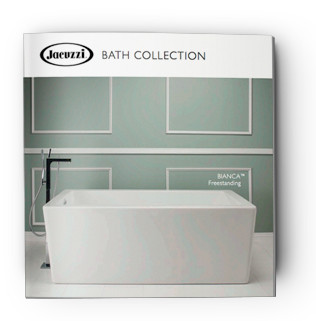
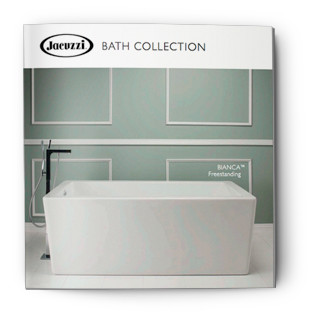
styling tweaks and image update

diff --git a/style.css b/style.css
@@ -1848,101 +1848,7 @@ h5 a:visited:hover {
 --------------------------------------------------------------*/
 
 
-.broPop
-{
-	background: #FFF;
-	height: 384px;	
-}
 
-.broPop .close_popup
-{
-	background: #006a85;
-	padding: 10px 25px;
-	text-align: right;
-}
-
-.broPop .close_popup a
-{
-	font-size: 12px;
-	line-height: 15px;
-	color: #FFF;
-	text-decoration: none;
-	font-family: "GSL";
-}
-
-.broPop .popup_content
-{
-	padding: 40px 20px;
-	text-align: center;
-	float: left;
-	width: 50%;
-}
-
-
-.broPop .popup_img
-{
-	text-align: right;
-	float: right;
-}
-
-
-.broPop .popup_content h2
-{
-	font-size: 24px;
-	line-height: 30px;
-	color: #006a85;
-	margin: 0px 0px 25px;
-	font-family: "GSL";
-	font-weight: 400;
-}
-
-.broPop .popup_content p
-{
-	font-size: 14px;
-	line-height: 23px;
-	color: #000000;
-	margin-bottom: 15px;
-	font-family: "Helvetica Neue";
-	font-weight: 300;
-}
-
-.vc_btn_grey.vc_btn_outlined.vc_btn_blue, .vc_btn_grey.vc_btn_square_outlined.vc_btn_blue
-{
-	color: #006a85 !important;
-	border-color: #006a85 !important;
-}
-
-.fancybox-skin
-{
-	background: none !important;
-	padding: 0px !important;
-}
-
-.clear
-{
- 	clear: both;
- 	margin: 0 auto;	
-}
-
-.fancybox-opened .fancybox-skin
-{
-	box-shadow: none !important;
-}
-
-
-@media screen and (max-width: 899px) {
-	.broPop
-	{
-		height: auto;
-	}
-	
-		
-	.broPop .popup_img
-	{
-		text-align: center;
-	}
-
-}
 	
 @media screen and (max-width: 768px) {
   .collection-row .wpb_single_image.vc_align_right {
@@ -2360,4 +2266,104 @@ h2.pdf-heading
 	line-height: 70px !important;
 	background: url("images/pdf_download.png") right center no-repeat transparent;
 	display: inline-block;	
+}
+
+/*--------------------------------------------------------------
+13.0 Popups
+--------------------------------------------------------------*/
+.broPop
+{
+	background: #FFF;
+	height: 384px;	
+}
+
+.broPop .close_popup
+{
+	background: #006a85;
+	padding: 10px 25px;
+	text-align: right;
+}
+
+.broPop .close_popup a
+{
+	font-size: 12px;
+	line-height: 15px;
+	color: #FFF;
+	text-decoration: none;
+	font-family: "GSL";
+}
+
+.broPop .popup_content
+{
+	padding: 40px 20px;
+	text-align: center;
+	float: left;
+	width: 50%;
+}
+
+
+.broPop .popup_img
+{
+	text-align: center;
+	float:none;
+}
+
+
+.broPop .popup_content h2
+{
+	font-size: 24px;
+	line-height: 30px;
+	color: #006a85;
+	margin: 0px 0px 15px;
+	font-family: "GSL";
+	font-weight: 400;
+}
+
+.broPop .popup_content p
+{
+	font-size: 14px;
+	line-height: 23px;
+	color: #000000;
+	margin-bottom: 15px;
+	font-family: "Helvetica Neue";
+	font-weight: 300;
+}
+
+.vc_btn_grey.vc_btn_outlined.vc_btn_blue, .vc_btn_grey.vc_btn_square_outlined.vc_btn_blue
+{
+	color: #006a85 !important;
+	border-color: #006a85 !important;
+}
+
+.fancybox-skin
+{
+	background: none !important;
+	padding: 0px !important;
+}
+
+.clear
+{
+ 	clear: both;
+ 	margin: 0 auto;	
+}
+
+.fancybox-opened .fancybox-skin
+{
+	box-shadow: none !important;
+}
+
+
+@media screen and (max-width: 899px) {
+	.broPop
+	{
+		height: auto;
+	}
+	
+		
+	.broPop .popup_img
+	{
+		text-align: center;
+		float:none;
+	}
+
 }

diff --git a/footer.php b/footer.php
@@ -51,8 +51,8 @@
 				jQuery.cookie("idleStamp",null, {path: '/' });
 				jQuery.cookie("idlePopped",true, {expires: 14, path: '/' });
 				jQuery("#openBroPop").fancybox({
-					maxWidth	: 900,
-					maxHeight	: 800,
+					maxWidth	: 660,
+					maxHeight	: 660,
 					fitToView	: false,
 					width		: '100%',
 					height		: 'auto',
